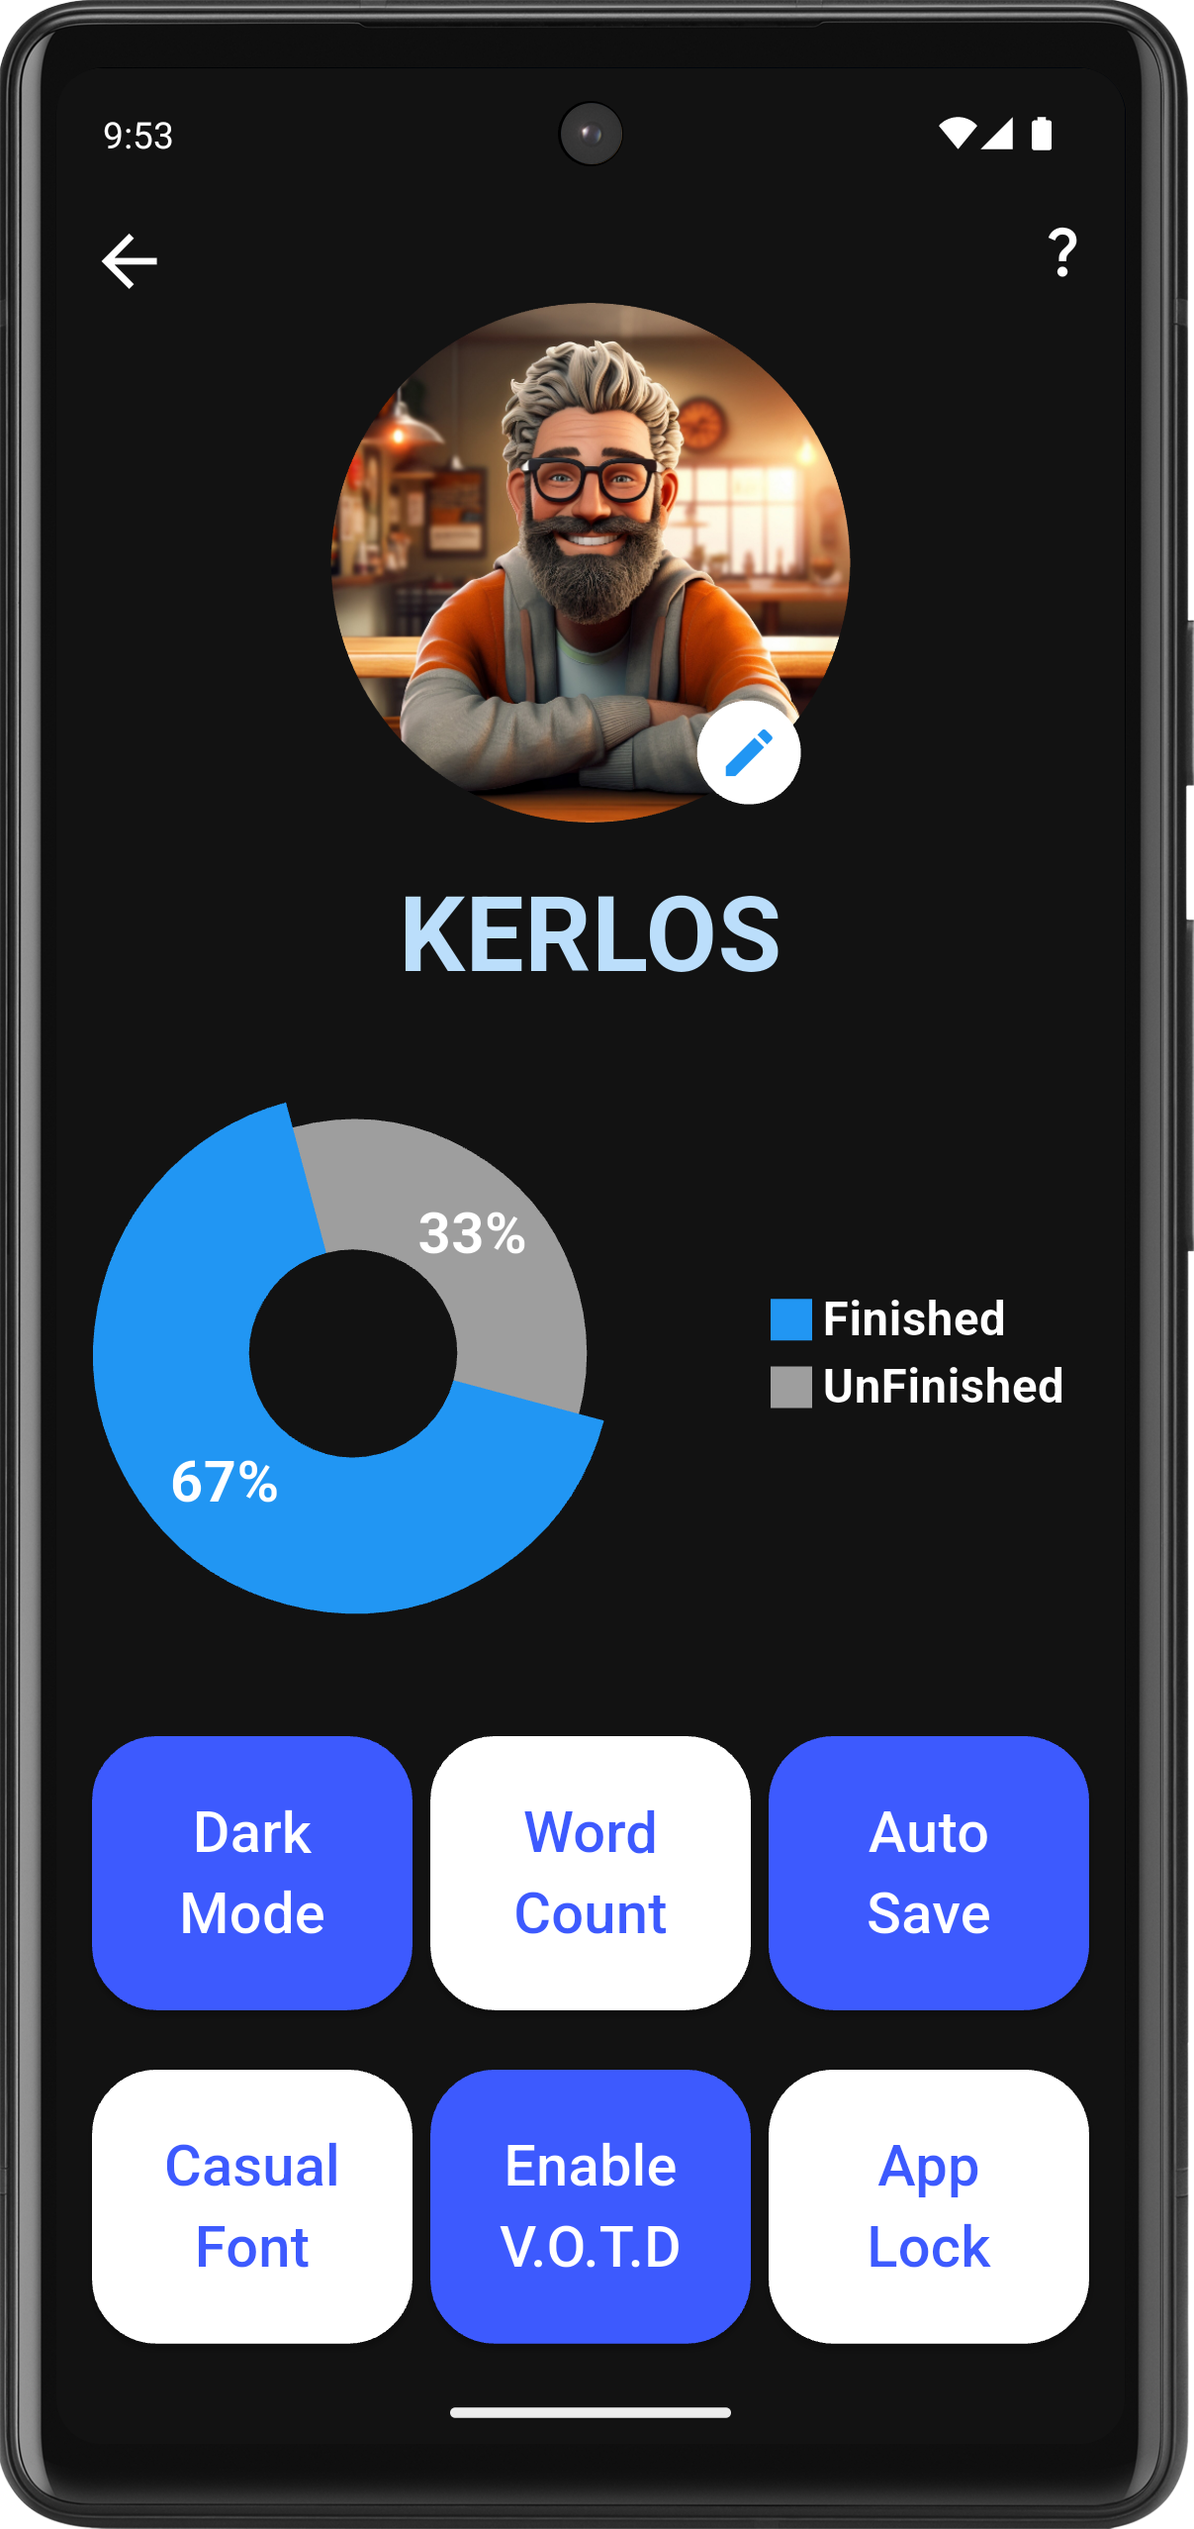
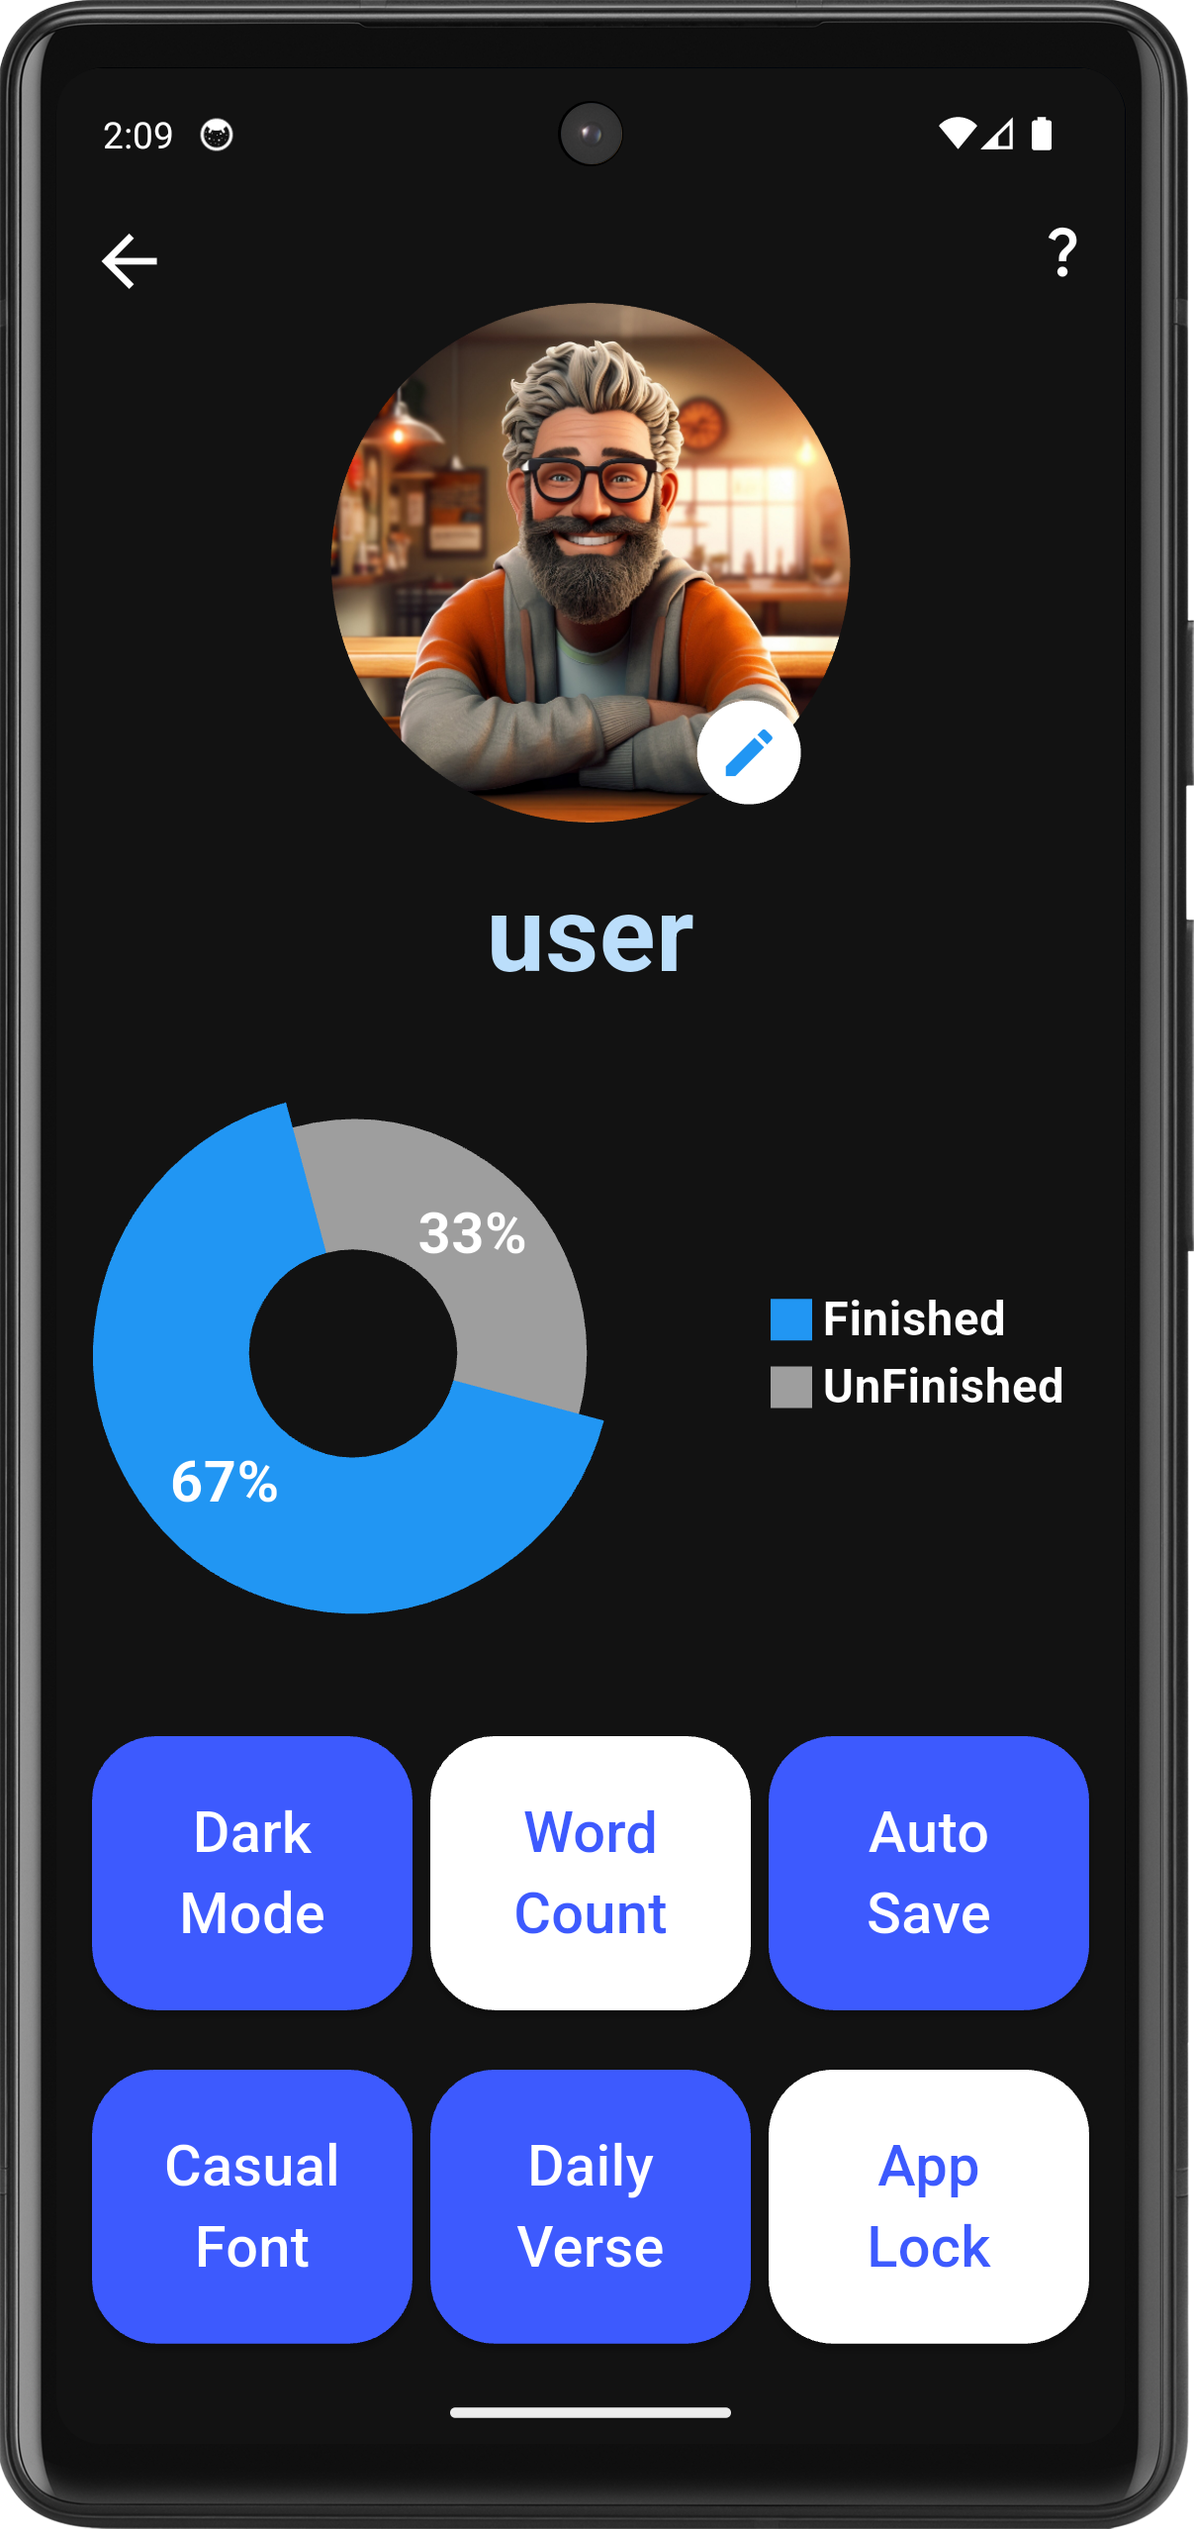
added reorder to notes ui improvements edited Readme updated screenshots

diff --git a/lib/view/widgets/reorder_notes_dialog.dart b/lib/view/widgets/reorder_notes_dialog.dart
@@ -1,0 +1,171 @@
+import 'package:flutter/material.dart';
+import 'package:flutter_staggered_animations/flutter_staggered_animations.dart';
+import 'package:provider/provider.dart';
+import 'package:todo/provider/notes_provider.dart';
+import 'package:todo/provider/user_provider.dart';
+
+class ReorderNotesDialog extends StatelessWidget {
+  const ReorderNotesDialog({
+    super.key,
+  });
+
+  @override
+  Widget build(BuildContext context) {
+    return Consumer<UserProvider>(
+      builder: (context, user, child) {
+        return StatefulBuilder(
+          builder: (BuildContext context, setState) {
+            return AlertDialog(
+              shape: RoundedRectangleBorder(
+                borderRadius: BorderRadius.circular(20),
+              ),
+              elevation: 2,
+              scrollable: true,
+              backgroundColor: user.colorProvider.pageBackground,
+              title: Row(
+                mainAxisSize: MainAxisSize.min,
+                mainAxisAlignment: MainAxisAlignment.start,
+                children: [
+                  const Spacer(
+                    flex: 1,
+                  ),
+                  Container(
+                    padding: const EdgeInsets.all(8),
+                    decoration: BoxDecoration(
+                      color: const Color.fromARGB(255, 64, 64, 64),
+                      borderRadius: BorderRadius.circular(8),
+                    ),
+                    child: const Icon(
+                      Icons.reorder,
+                      color: Colors.white,
+                    ),
+                  ),
+                  const Spacer(
+                    flex: 10,
+                  ),
+                  const Text(
+                    "Reorder",
+                    maxLines: 1,
+                    textAlign: TextAlign.center,
+                    style: TextStyle(
+                        fontWeight: FontWeight.bold,
+                        fontSize: 32,
+                        color: Colors.white),
+                    overflow: TextOverflow.clip,
+                  ),
+                  const Spacer(
+                    flex: 10,
+                  ),
+                  IconButton(
+                    onPressed: () {
+                      Navigator.pop(context);
+                    },
+                    icon: const Icon(
+                      Icons.close,
+                      color: Colors.white,
+                    ),
+                    style: ElevatedButton.styleFrom(
+                      backgroundColor: const Color.fromARGB(255, 64, 64, 64),
+                      shape: const RoundedRectangleBorder(
+                        borderRadius: BorderRadius.all(Radius.circular(8)),
+                      ),
+                    ),
+                  )
+                ],
+              ),
+              content: Consumer<NotesProvider>(
+                builder: (context, notes, child) {
+                  return notes.notes.isEmpty
+                      ? Center(
+                          child: Text(
+                            "Empty",
+                            style: TextStyle(color: Colors.white, fontSize: 22),
+                          ),
+                        )
+                      : Theme(
+                          data: ThemeData(canvasColor: Colors.transparent),
+                          child: SizedBox(
+                            height: notes.notes.length < 4 &&
+                                    MediaQuery.orientationOf(context) ==
+                                        Orientation.portrait
+                                ? (MediaQuery.sizeOf(context).height / 11) *
+                                    notes.notes.length
+                                : MediaQuery.sizeOf(context).height / 2.5,
+                            width: MediaQuery.sizeOf(context).width,
+                            child: ReorderableListView.builder(
+                              itemCount: notes.notes.length,
+                              itemBuilder: (context, index) {
+                                final taskKey =
+                                    notes.notes[index].id.toString();
+                                return AnimationLimiter(
+                                  key: Key(taskKey),
+                                  child: AnimationConfiguration.staggeredList(
+                                    duration: const Duration(milliseconds: 400),
+                                    position: index,
+                                    child: SlideAnimation(
+                                      verticalOffset: 300,
+                                      child: FadeInAnimation(
+                                        child: Card(
+                                          elevation: 3,
+                                          margin: const EdgeInsets.symmetric(
+                                              horizontal: 8, vertical: 6),
+                                          shape: RoundedRectangleBorder(
+                                            borderRadius:
+                                                BorderRadius.circular(25),
+                                          ),
+                                          color:
+                                              user.colorProvider.cardBackground,
+                                          child: Padding(
+                                            padding: const EdgeInsets.all(16.0),
+                                            child: Column(
+                                              crossAxisAlignment:
+                                                  CrossAxisAlignment.start,
+                                              children: [
+                                                Row(
+                                                  children: [
+                                                    Expanded(
+                                                      child: Text(
+                                                          notes.notes[index]
+                                                              .title,
+                                                          maxLines: 1,
+                                                          overflow: TextOverflow
+                                                              .ellipsis,
+                                                          style: TextStyle(
+                                                            fontSize: 26,
+                                                            color: user
+                                                                .colorProvider
+                                                                .taskTitle,
+                                                          )),
+                                                    ),
+                                                    Icon(
+                                                      Icons.reorder,
+                                                      color: Colors.grey,
+                                                    )
+                                                  ],
+                                                ),
+                                              ],
+                                            ),
+                                          ),
+                                        ),
+                                      ),
+                                    ),
+                                  ),
+                                );
+                              },
+                              onReorder: (int oldIndex, int newIndex) async {
+                                await Provider.of<NotesProvider>(context,
+                                        listen: false)
+                                    .syncAfterReorder(oldIndex, newIndex);
+                              },
+                            ),
+                          ),
+                        );
+                },
+              ),
+            );
+          },
+        );
+      },
+    );
+  }
+}

diff --git a/lib/view/widgets/add_note_dialog.dart b/lib/view/widgets/add_note_dialog.dart
@@ -47,7 +47,6 @@ class AddNoteDialog extends StatelessWidget {
                     child: const Icon(
                       Icons.add_task,
                       color: Color(0xff3D5AFE),
-                      size: 20,
                     ),
                   ),
                   const Spacer(
@@ -157,14 +156,21 @@ class AddNoteDialog extends StatelessWidget {
                       ),
                     ],
                   ),
+                  const Padding(padding: EdgeInsets.only(bottom: 15)),
                   Row(
                     mainAxisSize: MainAxisSize.min,
                     children: [
+                      Text(
+                        "Fingerprint",
+                        style: TextStyle(fontSize: 24),
+                      ),
                       const Spacer(
                         flex: 1,
                       ),
-                      IconButton(
-                          onPressed: () async {
+                      Switch(
+                          value: isProtected == 0 ? false : true,
+                          activeColor: Color(0xff3D5AFE),
+                          onChanged: (v) async {
                             if (isProtected == 0) {
                               bool isBioAvailable =
                                   await authService.authenticate();
@@ -186,14 +192,9 @@ class AddNoteDialog extends StatelessWidget {
                                 isProtected = 0;
                               });
                             }
-                          },
-                          icon: Icon(
-                            Icons.fingerprint_sharp,
-                            color:
-                                isProtected == 0 ? Colors.black : Colors.green,
-                          )),
+                          })
                     ],
-                  )
+                  ),
                 ],
               ),
               actions: [
@@ -238,7 +239,8 @@ class AddNoteDialog extends StatelessWidget {
                               msg: "Note Added",
                               toastLength: Toast.LENGTH_SHORT,
                               gravity: ToastGravity.BOTTOM,
-                              backgroundColor: user.colorProvider.cardBackground,
+                              backgroundColor:
+                                  user.colorProvider.cardBackground,
                               textColor: user.colorProvider.appTitle,
                               fontSize: 19.0);
                         });

diff --git a/lib/view/widgets/update_note_dialog.dart b/lib/view/widgets/update_note_dialog.dart
@@ -47,7 +47,6 @@ class UpdateNoteDialog extends StatelessWidget {
                     child: const Icon(
                       Icons.edit,
                       color: Color(0xff3D5AFE),
-                      size: 20,
                     ),
                   ),
                   const Spacer(
@@ -157,15 +156,21 @@ class UpdateNoteDialog extends StatelessWidget {
                       )
                     ],
                   ),
+                  const Padding(padding: EdgeInsets.only(bottom: 15)),
                   Row(
                     mainAxisSize: MainAxisSize.min,
-                    mainAxisAlignment: MainAxisAlignment.end,
                     children: [
+                      Text(
+                        "Fingerprint",
+                        style: TextStyle(fontSize: 24),
+                      ),
                       const Spacer(
                         flex: 1,
                       ),
-                      IconButton(
-                          onPressed: () async {
+                      Switch(
+                          value: isProtected == 0 ? false : true,
+                          activeColor: Color(0xff3D5AFE),
+                          onChanged: (v) async {
                             if (isProtected == 0) {
                               bool isBioAvailable =
                                   await authService.authenticate();
@@ -187,14 +192,9 @@ class UpdateNoteDialog extends StatelessWidget {
                                 isProtected = 0;
                               });
                             }
-                          },
-                          icon: Icon(
-                            Icons.fingerprint_sharp,
-                            color:
-                                isProtected == 0 ? Colors.black : Colors.green,
-                          )),
+                          })
                     ],
-                  )
+                  ),
                 ],
               ),
               actions: [

diff --git a/lib/view/pages/notes_page.dart b/lib/view/pages/notes_page.dart
@@ -9,6 +9,7 @@ import 'package:todo/provider/notes_provider.dart';
 import 'package:todo/provider/user_provider.dart';
 import 'package:todo/view/widgets/add_note_dialog.dart';
 import 'package:todo/services/authentication_service.dart';
+import 'package:todo/view/widgets/reorder_notes_dialog.dart';
 import '../widgets/appbar_avatar.dart';
 import '../widgets/update_note_dialog.dart';
 
@@ -53,6 +54,18 @@ class _NotesPageState extends State<NotesPage> {
             actions: [
               Row(
                 children: [
+                  IconButton(
+                      onPressed: () async {
+                        showDialog(
+                            context: context,
+                            builder: (context) {
+                              return ReorderNotesDialog();
+                            });
+                      },
+                      icon: const Icon(
+                        Icons.reorder,
+                        color: Colors.grey,
+                      )),
                   IconButton(
                       onPressed: () async {
                         Provider.of<NotesProvider>(context, listen: false)

diff --git a/lib/provider/notes_provider.dart b/lib/provider/notes_provider.dart
@@ -30,6 +30,19 @@ class NotesProvider with ChangeNotifier {
     get();
   }
 
+  Future<void> syncAfterReorder(int oldIndex, int newIndex) async {
+    if (oldIndex < newIndex) {
+      newIndex -= 1;
+    }
+    final oldNote = notes.removeAt(oldIndex);
+    notes.insert(newIndex, oldNote);
+    await DatabaseService().deleteAllNotes();
+    for (var note in notes) {
+      await DatabaseService().insertNote(note); // Reinsert items in new order
+    }
+    get();
+  }
+
   Future<void> backup() async {
     if (await LockManager().isLockEnabled()) {
       if (await AuthenticationService().authenticate()) {

diff --git a/lib/view/widgets/add_task_dialog.dart b/lib/view/widgets/add_task_dialog.dart
@@ -41,7 +41,6 @@ class AddTaskDialog extends StatelessWidget {
                     child: const Icon(
                       Icons.add_task,
                       color: Color(0xff3D5AFE),
-                      size: 20,
                     ),
                   ),
                   const Spacer(

diff --git a/lib/view/widgets/update_task_dialog.dart b/lib/view/widgets/update_task_dialog.dart
@@ -44,7 +44,6 @@ class UpdateTaskDialog extends StatelessWidget {
                   child: const Icon(
                     Icons.edit,
                     color: Color(0xff3D5AFE),
-                    size: 20,
                   ),
                 ),
                 const Spacer(

diff --git a/README.md b/README.md
@@ -1,5 +1,7 @@
 # Minimal To-Do App
 
+<a href="https://f-droid.org/en/packages/com.k.todo/"><img src="https://fdroid.gitlab.io/artwork/badge/get-it-on-en.svg" alt="Get it on F-Droid" height=80/></a>
+
 A simple application for managing your daily tasks.
 This To-Do app works completely offline,
 allowing you to keep track of your tasks without needing an internet connection.
